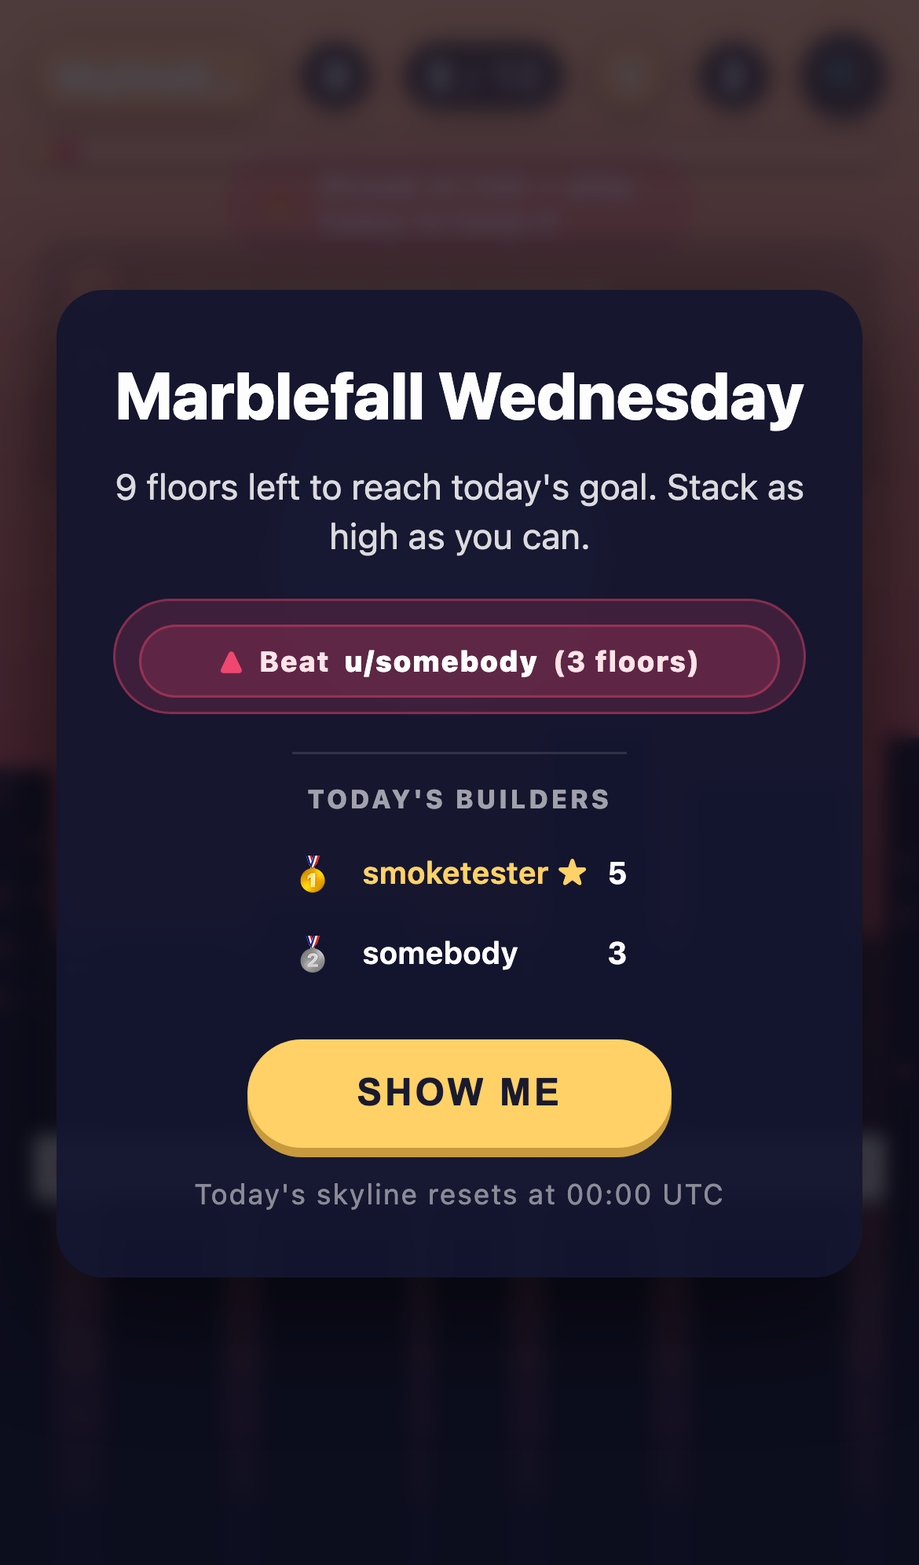
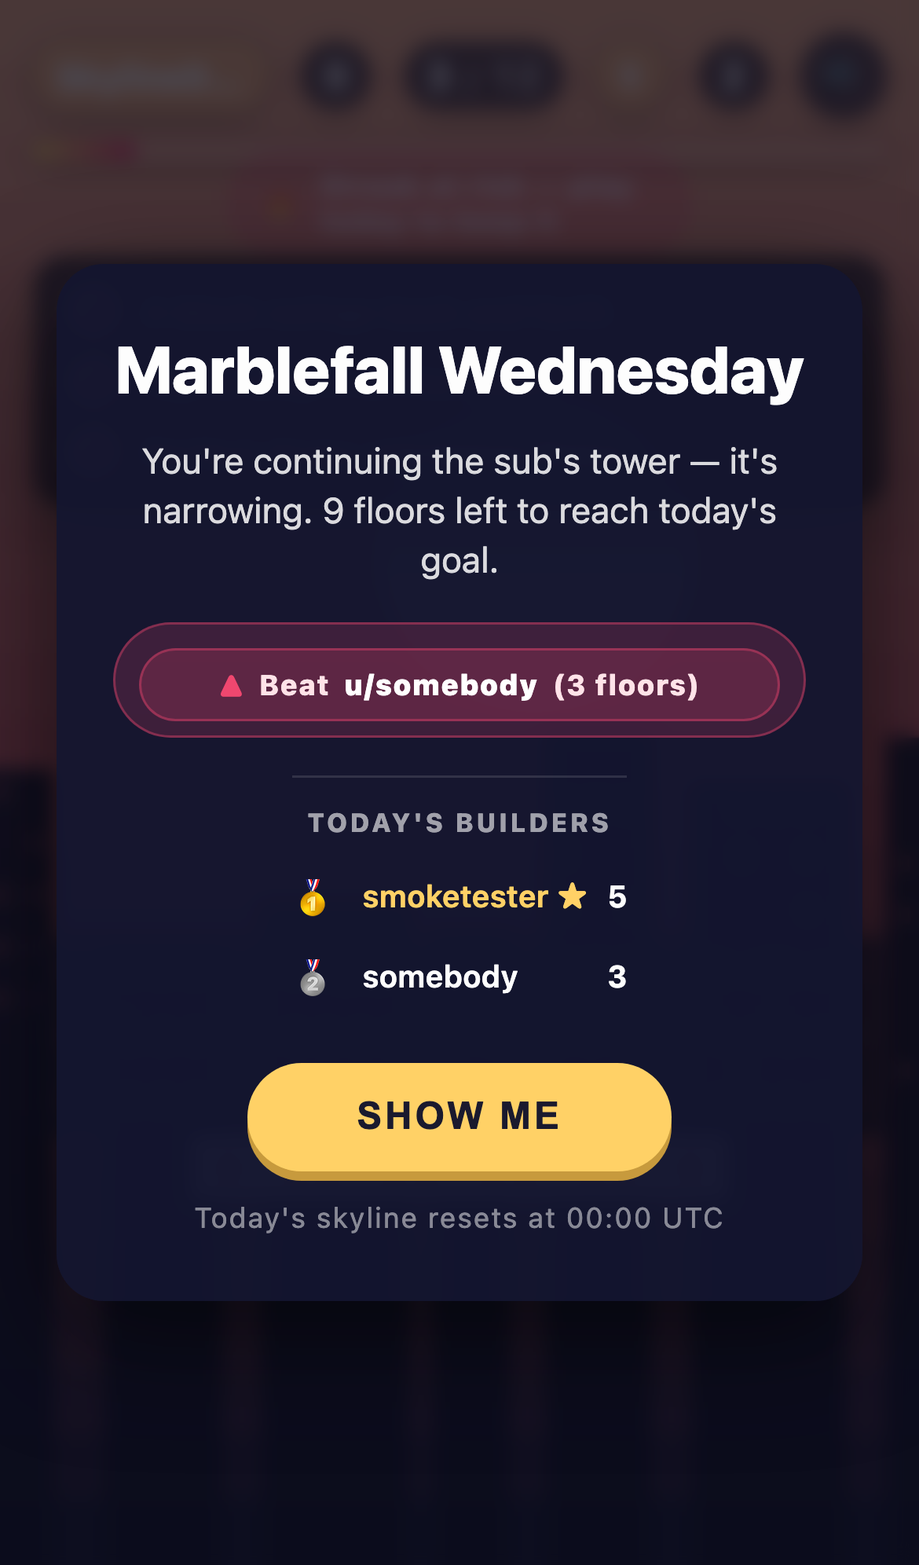
Skyline: shared physical tower — sub narrows one tower hand to hand
Turn the additive community counter into an interactive mechanic. The sub
now builds one physical tower per day whose top-floor width narrows with
every run, and each player's first block inherits the current width — so a
run changes the next builder's difficulty instead of just bumping a shared
total. This is the differentiator from a single-player Stack reskin.

- shared/seed.ts: tower width constants + narrowTower() (pure, deterministic)
- server/routes/api.ts: skyline:<date>:topwidth — read in /init, narrowed in
  /submit. Server-authoritative: computed from floors added (client never
  asserts a width), clamped to a playable minimum, capped per run so no single
  run/script can slam it to the floor, reset with the daily key.
- shared/api.ts: towerWidth on Init/Submit responses
- client/scenes/Game.ts: first block inherits the shared width (was hardcoded
  to PLAY_WIDTH — revives daily.blockWidth, which shipped but was dead on the
  client). Surfaced in start/retry overlays and the run summary so the
  hand-to-hand mechanic is legible before the first tap.
- scripts/smoke-test.mjs: stub towerWidth; screenshots regenerated
- docs: README / GAME_SPEC / SUBMISSION_DRAFT / VERIFY updated; fixed a stale
  DECISIONS entry that described a since-removed client-side fallback

type-check, lint, harness:check, build, and the Playwright smoke test
(0 console/page errors, both viewports) all pass.

diff --git a/src/client/scenes/Game.ts b/src/client/scenes/Game.ts
@@ -9,6 +9,8 @@ import type {
 } from '../../shared/api';
 import {
   PALETTES,
+  TOWER_MIN_WIDTH,
+  TOWER_START_WIDTH,
   dailyChallengeName,
   hashString,
   mulberry32,
@@ -92,6 +94,10 @@ export class GameScene extends Scene {
 
   private daily!: DailySeed;
   private communityFloors = 0;
+  // Width of the shared tower's top floor, inherited from the sub. The player's
+  // first block starts at this width and their run narrows it for the next
+  // builder. Server-authoritative; updated from /api/init and /api/submit.
+  private towerWidth = TOWER_START_WIDTH;
   private personalBest = 0;
   private streak = 0;
   private builders = 0;
@@ -355,6 +361,7 @@ export class GameScene extends Scene {
     }
     this.daily = init.daily;
     this.communityFloors = init.communityFloors;
+    this.towerWidth = init.towerWidth ?? TOWER_START_WIDTH;
     this.personalBest = init.personalBest;
     this.streak = init.streak;
     this.builders = init.builders;
@@ -382,10 +389,11 @@ export class GameScene extends Scene {
     this.updateStreakWarning();
     this.updateNextClaim();
     const remaining = Math.max(0, this.daily.communityGoal - this.communityFloors);
-    const base =
+    const goalLine =
       remaining > 0
-        ? `${remaining} floors left to reach today's goal. Stack as high as you can.`
-        : "Today's goal is reached — keep stacking to push it higher.";
+        ? `${remaining} floors left to reach today's goal.`
+        : 'Goal reached — keep stacking to push it higher.';
+    const base = `${this.towerLine()} ${goalLine}`;
     const dayName = dailyChallengeName(this.daily.date);
     this.showOverlay({
       title: this.daily.goalUnlocked
@@ -403,6 +411,26 @@ export class GameScene extends Scene {
       // shows on the first ever interaction, not on every cold load.
       this.showTutorialBanner();
     }
+  }
+
+  // Short human label for how far the sub has narrowed the shared tower. Drives
+  // the start-overlay copy so the "hand to hand" mechanic is legible before the
+  // player taps: the thinner the tower, the more the sub has whittled it.
+  private towerStatus(): string {
+    const span = TOWER_START_WIDTH - TOWER_MIN_WIDTH;
+    const pct = span > 0 ? (this.towerWidth - TOWER_MIN_WIDTH) / span : 1;
+    if (this.towerWidth >= TOWER_START_WIDTH - 4) return 'wide open';
+    if (pct > 0.66) return 'still wide';
+    if (pct > 0.4) return 'narrowing';
+    if (pct > 0.15) return 'getting narrow';
+    return 'razor-thin';
+  }
+
+  // One sentence telling the player they share one tower with the sub and what
+  // state the sub has left it in.
+  private towerLine(): string {
+    const verb = this.communityFloors > 0 ? 'continuing' : 'starting';
+    return `You're ${verb} the sub's tower — it's ${this.towerStatus()}.`;
   }
 
   // localStorage flag — silent on failures (private mode, quota, etc.).
@@ -573,11 +601,20 @@ export class GameScene extends Scene {
       };
       this.stacks.push(block);
     }
-    // First real platform is the floor players stack on.
+    // First real platform is the floor players stack on. Its width is the
+    // shared tower's current top-floor width — the sub has been narrowing this
+    // one tower all day, so the player continues from where the last builder
+    // left it rather than a fresh wide block. The wide ghost base below shows
+    // the foundation the sub started from.
+    const topWidth = Phaser.Math.Clamp(
+      this.towerWidth,
+      TOWER_MIN_WIDTH,
+      PLAY_WIDTH
+    );
     this.stacks.push({
       x: this.scale.width / 2,
       y: baseY + ghostCount * PLATFORM_HEIGHT,
-      width: PLAY_WIDTH,
+      width: topWidth,
       depth: 0,
       color: Phaser.Display.Color.HexStringToColor(palette.block).color,
       isGhost: false,
@@ -805,7 +842,7 @@ export class GameScene extends Scene {
     this.updateHud();
     this.showOverlay({
       title: 'Ready again?',
-      sub: 'Stack blocks to add to today’s sub skyline.',
+      sub: this.towerLine(),
       button: 'STACK',
       leaderboardHtml: this.leaderboardHtml(),
       rivalHtml: this.rivalHtml(),
@@ -1036,6 +1073,7 @@ export class GameScene extends Scene {
       return;
     }
     this.communityFloors = data.communityFloors;
+    this.towerWidth = data.towerWidth ?? this.towerWidth;
     this.personalBest = data.personalBest;
     this.streak = data.streak;
     this.builders = data.builders;
@@ -1145,6 +1183,13 @@ export class GameScene extends Scene {
     summaryLines.push(
       `<div class="summary-row"><span class="label">Sub total</span><span class="value">${data.communityFloors} / ${this.daily.communityGoal}</span></div>`
     );
+    // How narrow you left the shared tower for the next builder — makes the
+    // hand-to-hand contribution legible even on a zero-floor run.
+    if (data.floorsAdded > 0) {
+      summaryLines.push(
+        `<div class="summary-row"><span class="label">Tower left for sub</span><span class="value">${this.towerStatus()}</span></div>`
+      );
+    }
     summaryLines.push(
       `<div class="summary-row"><span class="label">Builders today</span><span class="value">${data.builders}</span></div>`
     );

diff --git a/src/server/routes/api.ts b/src/server/routes/api.ts
@@ -10,8 +10,10 @@ import type {
 } from '../../shared/api';
 import {
   DAILY_TTL_SECONDS,
+  TOWER_START_WIDTH,
   buildDailySeed,
   dailyChallengeName,
+  narrowTower,
   todayUtc,
   yesterdayUtc,
 } from '../../shared/seed';
@@ -23,6 +25,10 @@ const api = new Hono();
 // - The daily seed resets at UTC midnight.
 // - Per-user personal best is per (user, day) so daily leaderboards are honest.
 const floorsKey = (date: string) => `skyline:${date}:floors`;
+// Current width of the shared tower's top floor for the day. The sub narrows
+// this single value across the day; every builder inherits it and narrows it a
+// little more. Absent until the first run, where it defaults to the start width.
+const widthKey = (date: string) => `skyline:${date}:topwidth`;
 // Today's builders, stored as a sorted set keyed by username with the player's
 // best floor count for the day as the score. zAdd dedupes by member, so each
 // player appears once and their score tracks their personal best for the day.
@@ -109,6 +115,14 @@ async function readLeaderboard(
 async function readStreak(username: string): Promise<number> {
   const data = await redis.hGetAll(streakKey(username));
   return data?.count ? parseInt(data.count, 10) : 0;
+}
+
+// Read the shared tower's current top-floor width. Defaults to the start width
+// before anyone has played today.
+async function readTowerWidth(date: string): Promise<number> {
+  const raw = await redis.get(widthKey(date));
+  const w = raw ? parseInt(raw, 10) : TOWER_START_WIDTH;
+  return Number.isFinite(w) ? w : TOWER_START_WIDTH;
 }
 
 async function readFloorOwners(date: string): Promise<Record<string, string>> {
@@ -305,6 +319,7 @@ api.get('/init', async (c) => {
       floorNames,
       achievements,
       previousBaseRaw,
+      towerWidth,
     ] = await Promise.all([
       redis.get(personalKey(date, username)),
       readStreak(username),
@@ -315,6 +330,7 @@ api.get('/init', async (c) => {
       readFloorNames(date),
       readAchievements(username),
       redis.hGet(metaKey(yesterdayUtc()), 'basePalette'),
+      readTowerWidth(date),
     ]);
     const previousBase =
       previousBaseRaw === '0' || previousBaseRaw === '1' || previousBaseRaw === '2'
@@ -342,6 +358,7 @@ api.get('/init', async (c) => {
       subredditName: context.subredditName ?? '',
       daily,
       communityFloors,
+      towerWidth,
       personalBest,
       streak,
       builders,
@@ -410,6 +427,17 @@ api.post('/submit', async (c) => {
     if (perfect) {
       await redis.hSet(perfectKey(date), { [username.toLowerCase()]: '1' });
       await redis.expire(perfectKey(date), DAILY_TTL_SECONDS);
+    }
+
+    // Narrow the shared tower. The new width is computed entirely server-side
+    // from floors added (never trusted from the client), clamped to the
+    // minimum, and only ever decreases — so the next builder inherits the sub's
+    // thinner tower. A sloppy run narrows more than a perfect one.
+    const currentWidth = await readTowerWidth(date);
+    const towerWidth = narrowTower(currentWidth, floors, perfect);
+    if (towerWidth < currentWidth) {
+      await redis.set(widthKey(date), String(towerWidth));
+      await redis.expire(widthKey(date), DAILY_TTL_SECONDS);
     }
 
     // Streak: bump only once per UTC day. Consecutive days increment; a skipped
@@ -561,6 +589,7 @@ api.post('/submit', async (c) => {
       type: 'submit',
       communityFloors: after,
       floorsAdded: floors,
+      towerWidth,
       goalReached,
       personalBest: newPb,
       improvedPb,

diff --git a/src/shared/seed.ts b/src/shared/seed.ts
@@ -39,6 +39,41 @@ export function yesterdayUtc(now: Date = new Date()): string {
 // data, but nothing lingers forever in Redis.
 export const DAILY_TTL_SECONDS = 36 * 60 * 60;
 
+// Shared-tower width. The sub builds ONE physical tower per UTC day: the first
+// builder of the day starts at TOWER_START_WIDTH and every run narrows the
+// shared tower a little, so later builders inherit a thinner tower the whole
+// sub has been whittling down. This is the "hand to hand" community mechanic —
+// your run literally changes the starting width of the next player's run.
+//
+// Narrowing is computed server-side from floors added (never trusted from the
+// client), clamped to TOWER_MIN_WIDTH so the tower always stays playable, and
+// reset with the daily key at UTC midnight. Perfect runs narrow less, so clean
+// play "holds the line" for the rest of the sub.
+export const TOWER_START_WIDTH = 300;
+export const TOWER_MIN_WIDTH = 150;
+// Pixels the shared tower narrows per floor added: sloppy vs. perfect runs.
+export const TOWER_NARROW_PER_FLOOR = 5;
+export const TOWER_NARROW_PER_FLOOR_PERFECT = 2;
+// Hard cap on how much a single run can narrow the shared tower, so no one run
+// (or script) can slam the whole sub down to the minimum in one go.
+export const TOWER_MAX_NARROW_PER_RUN = 30;
+
+// Compute the next shared tower width after a run. Pure + deterministic so the
+// server is the single source of truth. `current` is the width before the run,
+// `floors` is floors the run added, `perfect` flags a flawless run.
+export function narrowTower(
+  current: number,
+  floors: number,
+  perfect: boolean
+): number {
+  if (floors <= 0) return current;
+  const perFloor = perfect
+    ? TOWER_NARROW_PER_FLOOR_PERFECT
+    : TOWER_NARROW_PER_FLOOR;
+  const drop = Math.min(floors * perFloor, TOWER_MAX_NARROW_PER_RUN);
+  return Math.max(TOWER_MIN_WIDTH, current - drop);
+}
+
 // Derive the full DailySeed from a date string and the current community state.
 // Pure function — safe to call from server or client.
 //

diff --git a/src/shared/api.ts b/src/shared/api.ts
@@ -48,6 +48,10 @@ export type InitResponse = {
   daily: DailySeed;
   // Total community floors at the moment this player loaded the page.
   communityFloors: number;
+  // Current width of the shared tower's top floor (px). The sub narrows this
+  // one tower across the day; the player's first block inherits this width, so
+  // later builders continue a thinner tower the whole sub has been whittling.
+  towerWidth: number;
   // Caller's personal best floor count for today's seed.
   personalBest: number;
   // Caller's active streak (consecutive days with at least 1 floor).
@@ -95,6 +99,9 @@ export type SubmitResponse = {
   communityFloors: number;
   // Floors added to the community by this run.
   floorsAdded: number;
+  // Shared tower width after this run narrowed it. The next builder (and this
+  // player's own retry) inherits this thinner tower.
+  towerWidth: number;
   // Whether the community reached its daily goal as a result of this run.
   goalReached: boolean;
   // Caller's personal best after this run.

diff --git a/notes/DECISIONS.md b/notes/DECISIONS.md
@@ -39,21 +39,53 @@ Follow-up:
 ```
 
 ```text
-2026-06-21 - Bootstrap seed flows from server, with client-side fallback
+2026-06-21 - Bootstrap seed flows from server; no fabricated fallback
 Context:
   The /api/init call returns the daily seed, community floors, personal best,
-  and streak. If the call fails (offline, Devvit webview not ready, smoke test),
-  the game should still play.
+  and streak. An early build fell back to a client-only buildDailySeed() when
+  the call failed, but that fabricated community/streak state the player could
+  mistake for real, shared data.
 Decision:
-  The Game scene bootstrap() awaits /api/init. On any failure, it falls back to
-  buildDailySeed(todayUtc(), 0). The /api/submit endpoint also has a client-side
-  fallback that shows the local-only summary so the end-of-run overlay still
-  shows.
+  The Game scene bootstrap() awaits /api/init and /api/submit. On any failure it
+  shows an explicit error overlay with a retry button (showError) and never
+  fabricates state — Game.ts:bootstrap() and submitRun() both bail to the retry
+  overlay. The game is server-authoritative; a degraded path that invents a
+  shared tower would be worse than an honest "try again".
 Tradeoff:
-  Slight risk of stale "personal best" on offline submissions, but it keeps the
-  game playable in degraded conditions.
+  No offline play. Acceptable: the whole point is the shared sub tower, which
+  only exists on the server.
 Follow-up:
   None.
+```
+
+```text
+2026-06-24 - Shared physical tower: the sub narrows one tower hand to hand
+Context:
+  The core loop was single-player "Stack" with the community contribution being
+  an additive counter — every player started a fresh wide block and their floors
+  just incremented a shared total. The collaboration was a sum, not an
+  interaction: nothing one player did changed another player's session. That is
+  the weakest form of "user contribution" and reads as a Stack reskin.
+Decision:
+  Make the sub build ONE physical tower per day. Its top-floor width lives in
+  skyline:<date>:topwidth and starts at TOWER_START_WIDTH. Every run narrows it
+  (narrowTower() in shared/seed.ts) — more for a sloppy run, less for a perfect
+  one — down to a clamped TOWER_MIN_WIDTH. The player's first block inherits the
+  current width, so each builder continues the tower from where the last left
+  it. Surfaced in the start/retry overlays ("You're continuing the sub's tower —
+  it's narrowing") and the end-of-run summary ("Tower left for sub").
+  Note: this revived dead state — daily.blockWidth was computed server-side and
+  shipped but never used by the client (the first block was hardcoded to
+  PLAY_WIDTH).
+Tradeoff:
+  Narrowing must be server-authoritative to be grief-safe. It is computed from
+  floors added (the client never asserts a width), clamped to a playable
+  minimum, capped per run (TOWER_MAX_NARROW_PER_RUN) so no single run/script can
+  slam the tower to the minimum, and reset with the daily key. One extra Redis
+  read + conditional write per submit; one extra read batched into /api/init.
+Follow-up:
+  Consider a visible tower-width meter in the HUD, and letting a long perfect
+  run widen the tower back a touch as a "repair the sub's tower" reward.
 ```
 
 ```text

diff --git a/notes/GAME_SPEC.md b/notes/GAME_SPEC.md
@@ -23,7 +23,7 @@ Target length: 20–60 seconds per run.
 
 ## Daily return
 
-- **Daily seed** (UTC): drives palette (3 base variants + a 4th "aurora" palette unlocked when the sub hit yesterday's goal), swing speed (70–160), community goal (12–30), and starting block width. Same for every player in the sub for 24h.
+- **Daily seed** (UTC): drives palette (3 base variants + a 4th "aurora" palette unlocked when the sub hit yesterday's goal), swing speed (70–160), and community goal (12–30). Same for every player in the sub for 24h. (Starting block width is no longer seed-derived — it comes from the shared tower the sub is narrowing; see the community mechanic.)
 - **Streak**: computed server-side from the stored last-play date. Consecutive UTC days with ≥1 stacked floor increment it; skipping a day resets to 1. Spoof-proof (client never sends the count).
 - **Personal best per day**: per-player per-UTC-day, so the leaderboard resets cleanly.
 - **Shared goal**: when the community fills the bar, every active player sees a "Goal Reached" badge. The server records it, and the next UTC day everyone loads into the bonus "aurora" palette ("Aurora unlocked ✨"). Determined server-side from yesterday's stored floors vs. goal — no client trust.
@@ -31,6 +31,7 @@ Target length: 20–60 seconds per run.
 ## Reddit-native / community mechanic
 
 - **Shared sub tower**: every player's successful drop adds floors to `skyline:<UTC-date>:floors` in Redis. New players see those floors as semi-transparent "ghost" platforms before they begin.
+- **One tower, narrowed hand to hand**: the sub builds a single physical tower per day. Its top-floor width lives in `skyline:<UTC-date>:topwidth` and starts wide (`TOWER_START_WIDTH`). Every run narrows it (more for a sloppy run, less for a perfect one) down to a clamped, still-playable minimum (`TOWER_MIN_WIDTH`). Your run's starting block inherits that width, so you continue the sub's tower from where the last builder left it — your contribution changes the difficulty of the next player's session, not just a shared counter. Narrowing is `narrowTower()` in `shared/seed.ts`, applied server-side in `/api/submit` from floors added (the client never asserts the width), capped per run so no single run (or script) can slam the tower to the minimum. Resets with the daily key.
 - **Daily builders board**: each player is one entry in a per-day sorted set (`skyline:<UTC-date>:builders`) scored by their best floors for the day (deduped by user). Top 10 are returned inline in the init/submit responses (and via `/api/leaderboard`) and rendered on the start and end overlays — current user highlighted, perfect runs starred. The live builder count and goal bar also drive the inline post card so the feed entry itself is the hook.
 - **Single-post shared state**: state is scoped to the post so each post becomes one synchronized skyline for its subreddit.
 - **No external client calls**: client hits `/api/*` on the Devvit server; the server is the only thing that touches Reddit APIs.

diff --git a/notes/SUBMISSION_DRAFT.md b/notes/SUBMISSION_DRAFT.md
@@ -22,8 +22,9 @@ A run is 20–60 seconds. Perfect stacks (zero overhang) trigger a gold burst an
 
 ## Why it has a hook
 
-- **One-sentence hook**: drop blocks to build today's skyline — every player in the sub adds a floor, and together you reach the goal.
-- **Daily seed**: same challenge for the whole sub for 24h. Palettes, swing speed, and starting block width are deterministic from the UTC date. The seed has a name (e.g. "Stardrop Saturday") so the day has identity.
+- **One-sentence hook**: every player in the sub builds one shared tower, hand to hand — you continue from exactly where the last builder left it, and together you reach the goal.
+- **One shared physical tower (the core hook)**: the sub narrows a single tower across the day. Your run's starting block width is the width the sub's tower currently sits at, so an early builder hands a wide tower forward and a late builder inherits a thin one the whole sub has whittled down. This makes the collaboration *interactive* — your run changes the difficulty of the next player's session, not just a counter both of you watch. Narrowing is server-authoritative (computed from floors added, clamped to a playable minimum, capped per run, reset daily), so it's grief-safe.
+- **Daily seed**: same challenge for the whole sub for 24h. Palette, swing speed, and goal are deterministic from the UTC date. The seed has a name (e.g. "Stardrop Saturday") so the day has identity. (Starting width comes from the shared tower, not the seed.)
 - **Shared visible progress**: the HUD progress bar fills toward today's floor goal as the sub plays. You are not just chasing a personal best — you are pushing the skyline.
 - **Streak**: any day with at least one stacked floor bumps your personal streak counter. A "streak at risk" warning fires in the overlay if you played yesterday but not today.
 - **Milestone ownership**: every 5th floor (and the final goal floor) is permanently claimed by the first player to cross it. Their username is etched on the floor in the stack and on the splash.

diff --git a/README.md b/README.md
@@ -16,8 +16,9 @@ A run takes 20–60 seconds. Perfect stacks (zero overhang) trigger a gold burst
 
 ## Why it has a hook
 
-- **One-sentence hook**: drop blocks to build today's skyline — every player in the sub adds a floor, and together you reach the goal.
-- **Daily reset**: the seed (palette, swing speed, goal, starting block width) is locked for the UTC day, so everyone in the sub gets the same challenge.
+- **One-sentence hook**: every player in the sub builds one shared tower, hand to hand — you continue from exactly where the last builder left it, and together you reach the goal.
+- **One shared physical tower**: the sub narrows a single tower across the day. Your run's starting block width is the width the sub's tower currently sits at — so an early builder hands a wide tower to the next player, and a late builder inherits a thin one the whole sub has been whittling down. Your contribution literally changes the next player's session, not just a counter. The narrowing is computed server-side from floors added (never trusted from the client), clamped to a playable minimum, and reset daily.
+- **Daily reset**: the seed (palette, swing speed, goal) is locked for the UTC day, so everyone in the sub gets the same challenge.
 - **Visible community progress**: the inline post card *and* the in-game HUD show a live bar toward today's floor goal, plus how many builders have contributed. You are not just chasing a personal best — you are helping the sub's skyline.
 - **Today's builders board**: the end-of-run overlay (and the start overlay) shows the day's top contributors, with you highlighted and perfect runs starred.
 - **Constrained contribution**: every run contributes `(username, floors, perfect)` to Redis. No free-form text, no abusive inputs.

diff --git a/notes/VERIFY.md b/notes/VERIFY.md
@@ -38,6 +38,7 @@ stubbed via `page.addInitScript` so the bundle's `requestExpandedMode` and
 - (Round 6) No rate limiting — added per-user per-minute buckets for init (30/min), submit (20/min), share (6/min) with 70s TTL.
 - (Round 7) Daily palette could repeat on consecutive days. Server now stores today's base palette in the daily meta hash and passes yesterday's id into `buildDailySeed` so the anti-repeat promise is actually enforced.
 - (Round 8) Mobile HUD pills overlapped at 390px. Added media queries: pill labels hide at <480px, next-claim pill hides at <360px.
+- (Round 9) Collaboration was purely additive — every player started a fresh wide block and just incremented a shared counter, so the "shared tower" was cosmetic and the game read as a Stack reskin. Made the sub build one physical tower: the shared top-floor width (`skyline:<date>:topwidth`) narrows with every run (server-authoritative via `narrowTower()`, clamped to a playable minimum, capped per run, reset daily), and each player's first block inherits it — so your run changes the next builder's difficulty. Surfaced in the start/retry overlays ("You're continuing the sub's tower — it's narrowing") and the run summary ("Tower left for sub"). Smoke test re-run clean (0 console/page errors, both viewports); screenshots regenerated. This also revived dead code: `daily.blockWidth` was shipped but never read by the client.
 
 ## Screenshots
 
